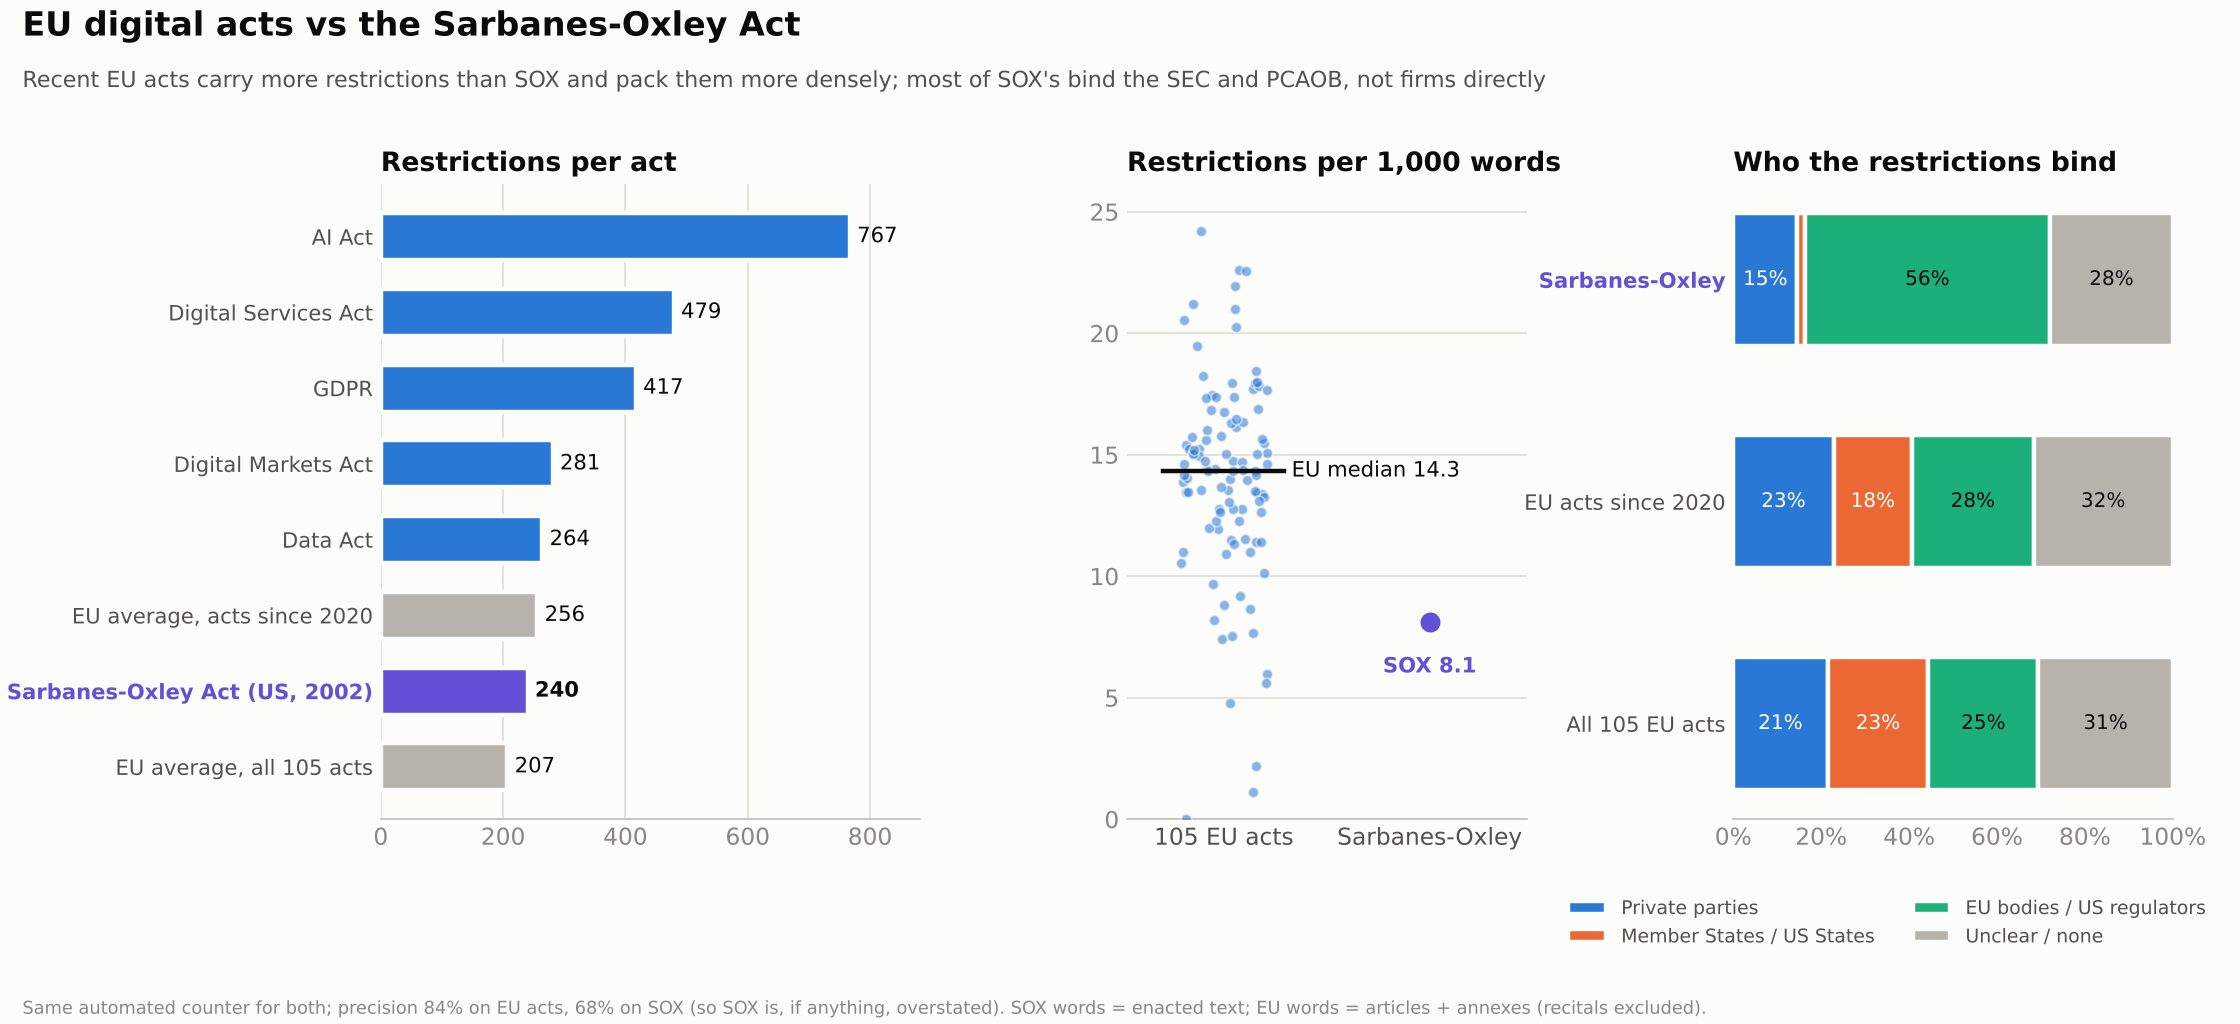
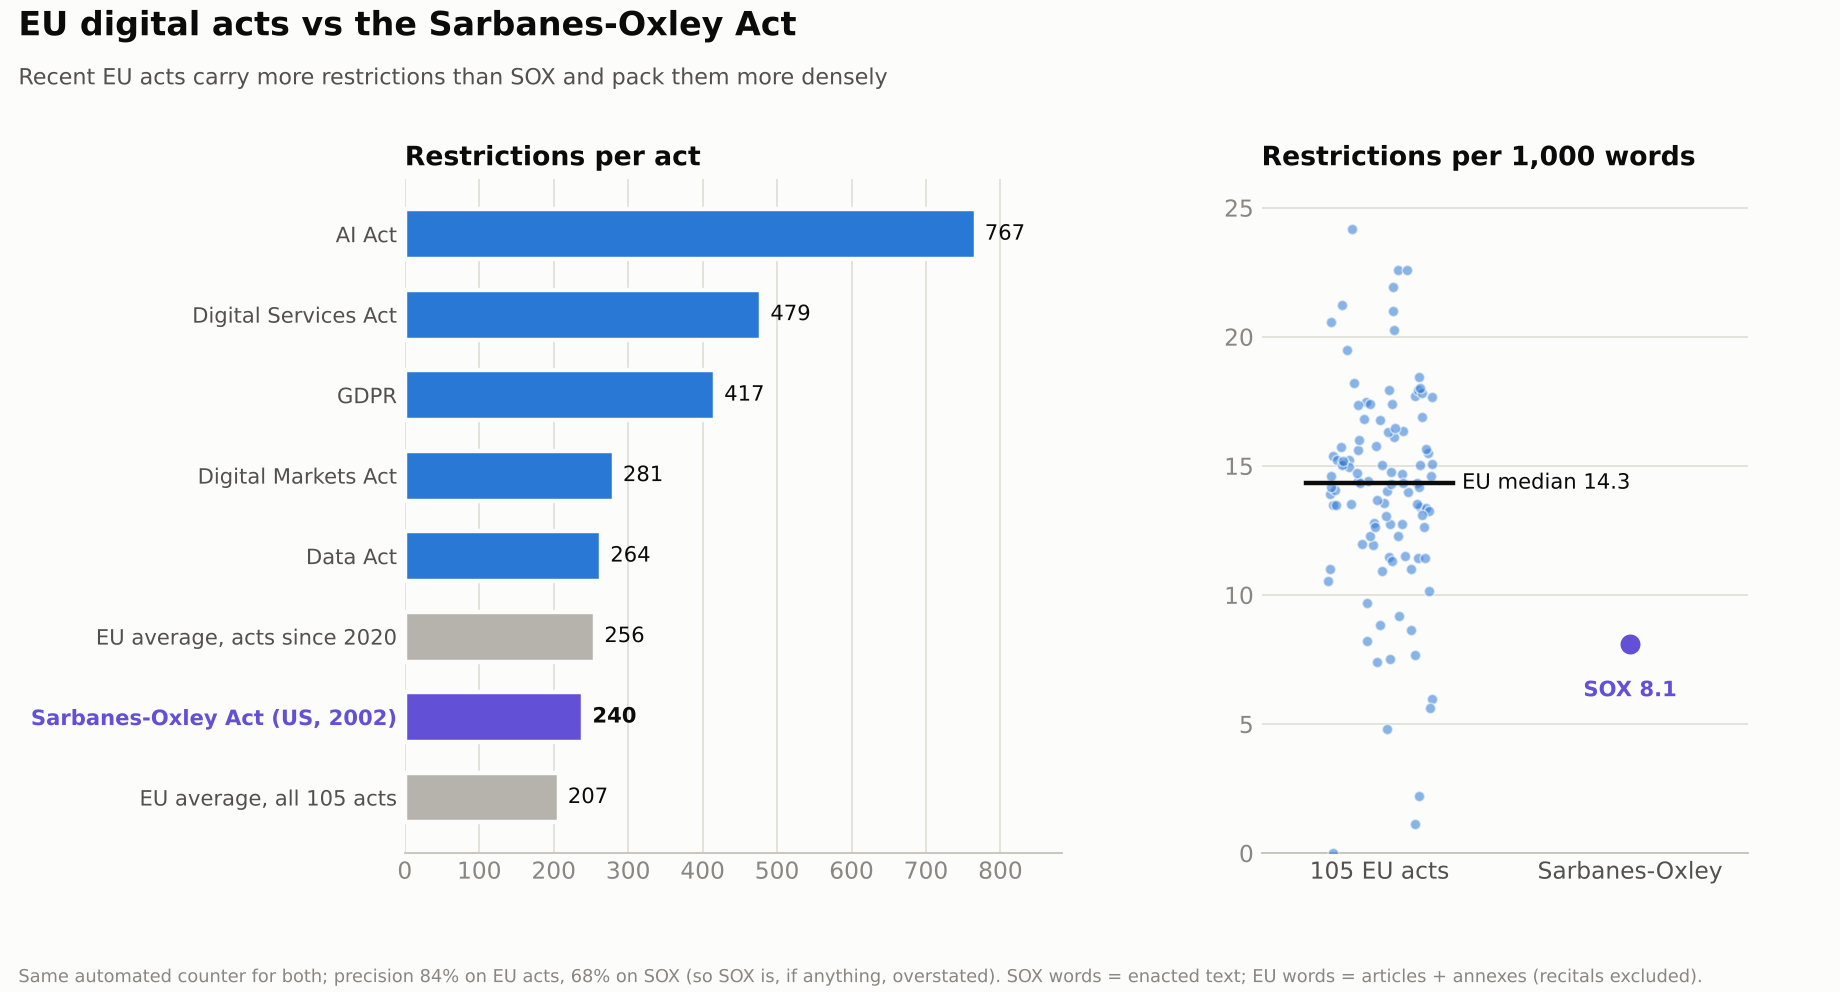
Drop addressee panel from SOX benchmark chart
Claude-Session: https://claude.ai/code/session_015jJNgYEity1n7oPe2my2VN

diff --git a/research/ceps_metrics/scripts/charts.py b/research/ceps_metrics/scripts/charts.py
@@ -244,10 +244,10 @@ finish(fig, "08_proposal_vs_adopted.png")
 import json as _json, random as _random
 sox = _json.load(open("../data/benchmark_sox.json"))["all_text"]
 SOXC = CAT[6]
-fig = plt.figure(figsize=(14, 6.4), dpi=160); fig.patch.set_facecolor(SURF)
-gs = fig.add_gridspec(1, 3, width_ratios=[1.35, 1, 1.1], wspace=0.45)
-ax1, ax2, ax3 = (fig.add_subplot(gs[0, i]) for i in range(3))
-for ax in (ax1, ax2, ax3):
+fig = plt.figure(figsize=(11.5, 6.2), dpi=160); fig.patch.set_facecolor(SURF)
+gs = fig.add_gridspec(1, 2, width_ratios=[1.35, 1], wspace=0.35)
+ax1, ax2 = (fig.add_subplot(gs[0, i]) for i in range(2))
+for ax in (ax1, ax2):
     ax.set_facecolor(SURF)
     for s_ in ("top", "right", "left"):
         ax.spines[s_].set_visible(False)
@@ -288,36 +288,10 @@ ax2.set_ylim(0, max(dens) * 1.08)
 ax2.yaxis.grid(True, color=GRID, lw=0.8); ax2.set_axisbelow(True)
 ax2.set_title("Restrictions per 1,000 words", loc="left", fontsize=12, color=INK, weight="bold")
 
-# panel 3: who is bound
-def shares(rows):
-    t = sum(r["restrictions_total"] for r in rows)
-    return [sum(r[a] or 0 for r in rows) / t for a in ADDR]
-sa = sox["by_addressee"]; st = sox["restrictions_total"]
-groups = [("Sarbanes-Oxley", [sa.get("private parties", 0) / st, sa.get("US States", 0) / st,
-                              sa.get("federal government / regulators (SEC, PCAOB)", 0) / st, sa.get("unclear / none", 0) / st]),
-          ("EU acts since 2020", shares(recent)), ("All 105 EU acts", shares(inst))]
-labels3 = ["Private parties", "Member States / US States", "EU bodies / US regulators", "Unclear / none"]
-cols3 = CAT[:3] + [NEUTRAL]
-yy = [2, 1, 0]
-left = [0, 0, 0]
-for k in range(4):
-    vals = [g[1][k] for g in groups]
-    ax3.barh(yy, vals, left=left, color=cols3[k], edgecolor=SURF, linewidth=2, height=0.6, label=labels3[k])
-    for yi, v, l in zip(yy, vals, left):
-        if v >= 0.08:
-            ax3.text(l + v / 2, yi, f"{v:.0%}", ha="center", va="center", fontsize=9,
-                     color="white" if cols3[k] in (CAT[0], CAT[1]) else INK)
-    left = [l + v for l, v in zip(left, vals)]
-ax3.set_yticks(yy); ax3.set_yticklabels([g[0] for g in groups], color=INK2, fontsize=9.5)
-ax3.get_yticklabels()[0].set_color(SOXC); ax3.get_yticklabels()[0].set_weight("bold")
-ax3.set_xlim(0, 1); ax3.xaxis.set_major_formatter(matplotlib.ticker.PercentFormatter(1.0))
-ax3.legend(loc="upper center", bbox_to_anchor=(0.35, -0.1), ncol=2, frameon=False, labelcolor=INK2, fontsize=8.5)
-ax3.set_title("Who the restrictions bind", loc="left", fontsize=12, color=INK, weight="bold")
-
 fig.suptitle("EU digital acts vs the Sarbanes-Oxley Act", x=0.01, ha="left", fontsize=15, color=INK, weight="bold", y=0.99)
-fig.text(0.01, 0.915, "Recent EU acts carry more restrictions than SOX and pack them more densely; most of SOX's bind the SEC and PCAOB, not firms directly",
+fig.text(0.01, 0.915, "Recent EU acts carry more restrictions than SOX and pack them more densely",
          fontsize=10, color=INK2)
 fig.text(0.01, 0.01, "Same automated counter for both; precision 84% on EU acts, 68% on SOX (so SOX is, if anything, overstated). "
          "SOX words = enacted text; EU words = articles + annexes (recitals excluded).", fontsize=8, color=MUTED)
-fig.subplots_adjust(left=0.17, right=0.97, top=0.82, bottom=0.2)
+fig.subplots_adjust(left=0.22, right=0.95, top=0.82, bottom=0.14)
 fig.savefig(OUT + "09_benchmark_sox.png", facecolor=SURF); plt.close(fig); print("wrote 09_benchmark_sox.png")
